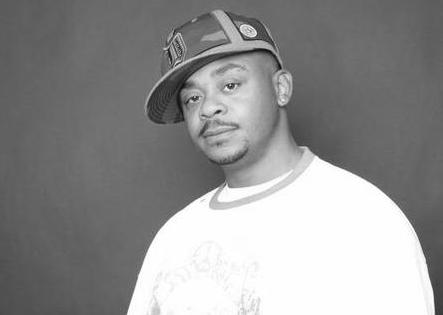
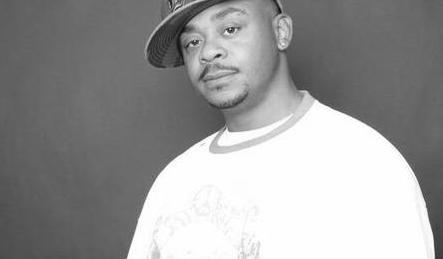
rejigged stats

Changed region(s): [[0.2935, 0.0, 0.9684, 0.9575], [0.9684, 0.8649, 0.9977, 0.9266]]

diff --git a/dictionary/templates/dictionary/stats.html b/dictionary/templates/dictionary/stats.html
@@ -10,14 +10,14 @@
         <div id="content" class="group">
             <div class="entry-content">
                     <figure class="center-block">
-                        <img src="/static/dictionary/img/header/statistics.png"
+                        <img src="/static/dictionary/img/header/statistics.jpg"
                           property="image"
                           scale="0"/>
                     </figure>
                     <div class="headword-image">statistics</div>
 
                 <div class="trr-list-header">Overall Totals</div>
-                <ul class="counts" style="margin-bottom: -2em;">
+                <ul class="counts">
                     <li class="entry-count"><strong>{{num_entries}}</strong> entries</li>
                     <li class="sense-count"><strong>{{num_senses}}</strong> senses</li>
                     <li class="example-count"><strong>{{num_examples}}</strong> examples</li>
@@ -47,7 +47,7 @@
                 </table>
                 <div class="trr-list-header">Best represented places</div>
                 <table class="table">
-                    <th colspan="1">Location</th><th colspan="1"># Artists</th>
+                    <th colspan="1">Location</th><th colspan="1"># Artists from there</th>
                     {% for place in best_represented_places %}
                     <tr>
                         <td class="col-md-1"><a href="{%url 'place' place.slug %}">{{place.name}}</a></td>
@@ -55,12 +55,22 @@
                     </tr>
                     {% endfor %}
                 </table>
-                <div class="trr-list-header">Most mentioned places</div>
+                <div class="trr-list-header">Most shouted-out places</div>
                 <table class="table">
-                    <th colspan="1">Name</th><th colspan="1"># Mentions</th>
+                    <th colspan="1">Name</th><th colspan="1"># Shout-outs</th>
                     {% for e in most_mentioned_places %}
                     <tr>
                         <td class="col-md-1"><a href="{%url 'place' e.slug %}">{{e.name}}</a></td>
+                        <td class="col-md-1"><span class="counter-bar" style="width:{{e.width}}%">{{e.num_examples}}</span></td>
+                    </tr>
+                    {% endfor %}
+                </table>
+                <div class="trr-list-header">Most shouted-out artists</div>
+                <table class="table">
+                    <th colspan="1">Name</th><th colspan="1"># Shout-outs</th>
+                    {% for e in most_mentioned_artists %}
+                    <tr>
+                        <td class="col-md-1"><a href="{%url 'artist' e.slug %}">{{e.pref_label}}</a></td>
                         <td class="col-md-1"><span class="counter-bar" style="width:{{e.width}}%">{{e.num_examples}}</span></td>
                     </tr>
                     {% endfor %}
@@ -154,16 +164,6 @@
                         {% endfor %}
                         <img class="force-justify" src="/static/dictionary/img/artists/thumb/__none.png"/>
                     </div>
-                <div class="trr-list-header">Artist shout-outs</div>
-                <table class="table">
-                    <th colspan="1">Name</th><th colspan="1"># Shout-outs</th>
-                    {% for e in most_mentioned_artists %}
-                    <tr>
-                        <td class="col-md-1"><a href="{%url 'artist' e.slug %}">{{e.pref_label}}</a></td>
-                        <td class="col-md-1"><span class="counter-bar" style="width:{{e.width}}%">{{e.num_examples}}</span></td>
-                    </tr>
-                    {% endfor %}
-                </table>
                 </div>
             </div>
         </div>

diff --git a/dictionary/static/dictionary/css/styles.css b/dictionary/static/dictionary/css/styles.css
@@ -945,6 +945,9 @@ td {
 	/*filter: invert(100%);*/
 }
 
+.counts {
+    margin-bottom: -2em;
+}
 
 /*
 --------------------------------------------------------------
@@ -1173,6 +1176,10 @@ and (max-width : 600px) {
     .trr-list-header {
          padding: 10px 15px;
      }
+
+    .counts {
+        margin-bottom: -3em;
+    }
 
    .lyrics i {
         font-size: .5em;
@@ -1434,6 +1441,10 @@ and (max-width : 240px) and (max-height : 240px) {
     .trr-list-header {
         padding: 8px;
         font-size: .7em;
+    }
+
+    .counts {
+        margin-bottom: -2.5em;
     }
 
     .single-thumb {

diff --git a/dictionary/views.py b/dictionary/views.py
@@ -521,6 +521,9 @@ def stats(request):
     linked_exx = Example.objects.annotate(num_links=Count('lyric_links')).order_by('-num_links')
 
     template = loader.get_template('dictionary/stats.html')
+
+    WIDTH_ADJUSTMENT = 5
+
     context = {
         'num_entries': entry_count,
         'num_senses': sense_count,
@@ -532,7 +535,7 @@ def stats(request):
                 'anchor': sense.xml_id,
                 'definition': sense.definition,
                 'num_examples': sense.num_examples,
-                'width': (sense.num_examples / best_attested_sense_count) * 100
+                'width': (sense.num_examples / best_attested_sense_count) * 100 - WIDTH_ADJUSTMENT
 
             } for sense in best_attested_senses
             ],
@@ -543,7 +546,7 @@ def stats(request):
                 'artist_name': song.artist_name,
                 'artist_slug':song.artist_slug,
                 'num_examples': song.num_examples,
-                'width': (song.num_examples / most_cited_song_count) * 100
+                'width': (song.num_examples / most_cited_song_count) * 100 - WIDTH_ADJUSTMENT
             } for song in most_cited_songs
             ],
         'most_mentioned_places': [
@@ -553,7 +556,7 @@ def stats(request):
                 'pref_label': e.pref_label,
                 'entity_type': e.entity_type,
                 'num_examples': e.num_examples,
-                'width': (e.num_examples / place_mention_count) * 100
+                'width': (e.num_examples / place_mention_count) * 100 - WIDTH_ADJUSTMENT
             } for e in most_mentioned_places
             ],
         'most_mentioned_artists': [
@@ -563,7 +566,7 @@ def stats(request):
                 'pref_label': e.pref_label,
                 'entity_type': e.entity_type,
                 'num_examples': e.num_examples,
-                'width': (e.num_examples / artist_mention_count) * 100
+                'width': (e.num_examples / artist_mention_count) * 100 - WIDTH_ADJUSTMENT
             } for e in most_mentioned_artists
             ],
         'num_artists': len(artists),
@@ -573,7 +576,7 @@ def stats(request):
                 'name': place.name.split(', ')[0],
                 'slug': place.slug,
                 'num_artists': place.num_artists,
-                'width': (place.num_artists / place_count) * 100
+                'width': (place.num_artists / place_count) * 100 - WIDTH_ADJUSTMENT
             } for place in places[:LIST_LENGTH]
             ],
         'earliest_date': {'example': [build_example(date, published_headwords) for date in examples_date_ascending[:LIST_LENGTH]]},
@@ -581,13 +584,13 @@ def stats(request):
         'num_seventies': seventies,
         'seventies_width': (seventies / decade_max) * 100,
         'num_eighties': eighties,
-        'eighties_width': (eighties / decade_max) * 100,
+        'eighties_width': (eighties / decade_max) * 100 - WIDTH_ADJUSTMENT,
         'num_nineties': nineties,
-        'nineties_width': (nineties / decade_max) * 100,
+        'nineties_width': (nineties / decade_max) * 100 - WIDTH_ADJUSTMENT,
         'num_noughties': noughties,
-        'noughties_width': (noughties / decade_max) * 100,
+        'noughties_width': (noughties / decade_max) * 100 - WIDTH_ADJUSTMENT,
         'num_twenty_tens': twenty_tens,
-        'twenty_tens_width': (twenty_tens / decade_max) * 100,
+        'twenty_tens_width': (twenty_tens / decade_max) * 100 - WIDTH_ADJUSTMENT,
         'most_linked_example': {'example': [build_example(linked_exx[:1][0], published_headwords)], 'count': linked_exx[:1][0].num_links},
         'most_cited_artists': [{'artist': build_artist(artist), 'count': artist.num_cites} for artist in artists[:LIST_LENGTH+1]]
     }
